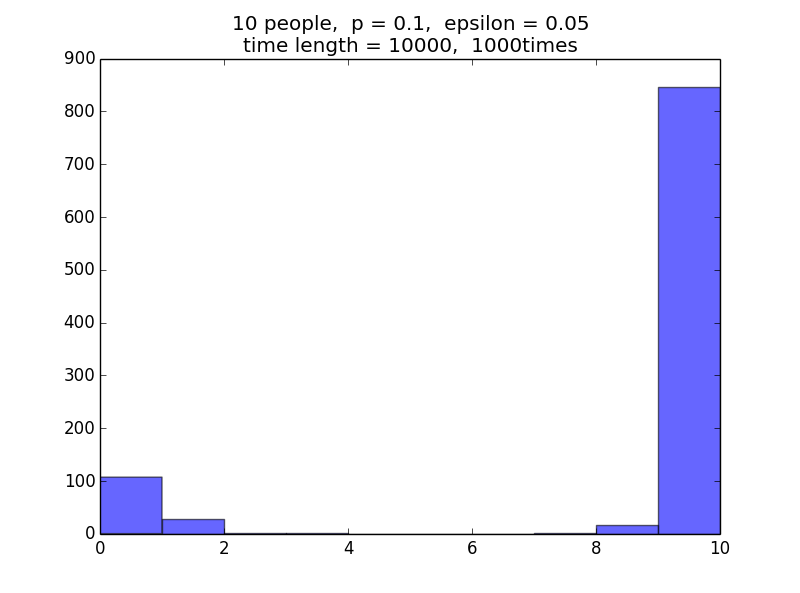
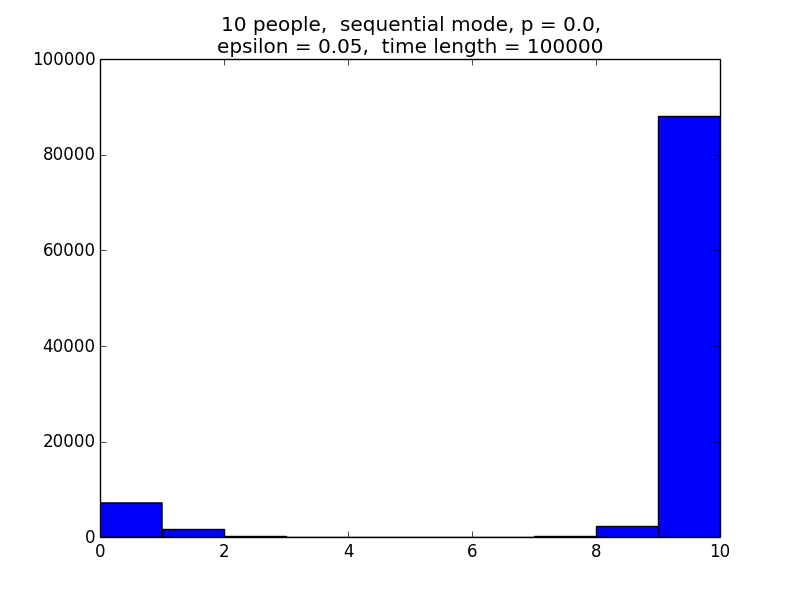
プロットの画像を変更しました

diff --git a/KMR_class.py b/KMR_class.py
@@ -112,7 +112,7 @@ class KMR:
         self.path(t)
         plt.hist(self.xs, bins=10)
         plt.ylim([0,t])
-        tit = str(self.n)+' people,  '+self.mode+' mode, '+'p = '+str(round(self.p,2))+',  '+'\n'+'epsilon = '+str(self.epsi)+'time length = '+str(t)
+        tit = str(self.n)+' people,  '+self.mode+' mode, '+'p = '+str(round(self.p,2))+',  '+'\n'+'epsilon = '+str(self.epsi)+',  time length = '+str(t)
         plt.title(tit)
         plt.show()
         
@@ -129,7 +129,7 @@ class KMR:
 #入力の例
 payoff = [[[4,4],[0,3]],[[3,0],[2,2]]]
 set_pay(payoff)
-f = KMR(4,1/3,0.1,'sequential')  # (人数, 二項分布の確率, ε, モード)
-#f.simplot(100000)
+f = KMR(10,0,0.1,'sequential')  # (人数, 二項分布の確率, ε, モード)
+#f.plot(100000)
 #f.hist(100000)
 #f.equilibrium()

diff --git a/README.md b/README.md
@@ -2,6 +2,6 @@ Kandori-Mailath-Rob
 ==============
 私のプログラムの出力結果です
 
-<img src="simplot.png" alt=" transition" width="480" hspace="40"/>
+<img src="plot.png" alt=" transition" width="480" hspace="40"/>
 <img src="histogram.png" alt="histogram" width="480" hspace="40"/>
-<img src="equibrium.png" alt="histogram" width="480" hspace="40"/>
+<img src="equilibrium.png" alt="histogram" width="480" hspace="40"/>
